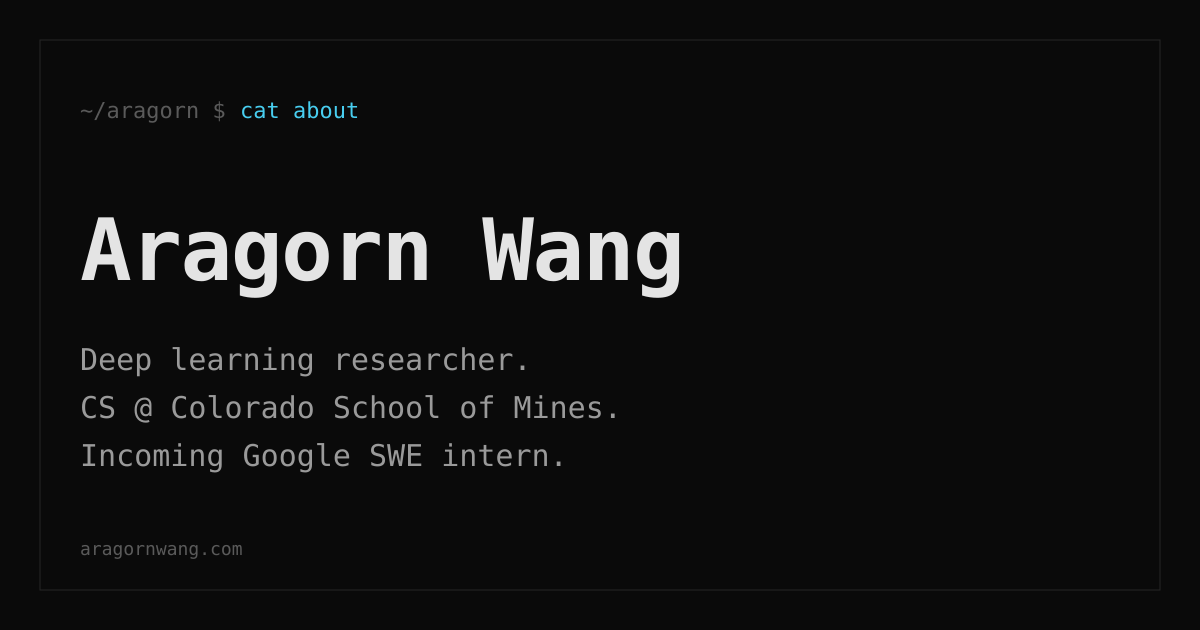
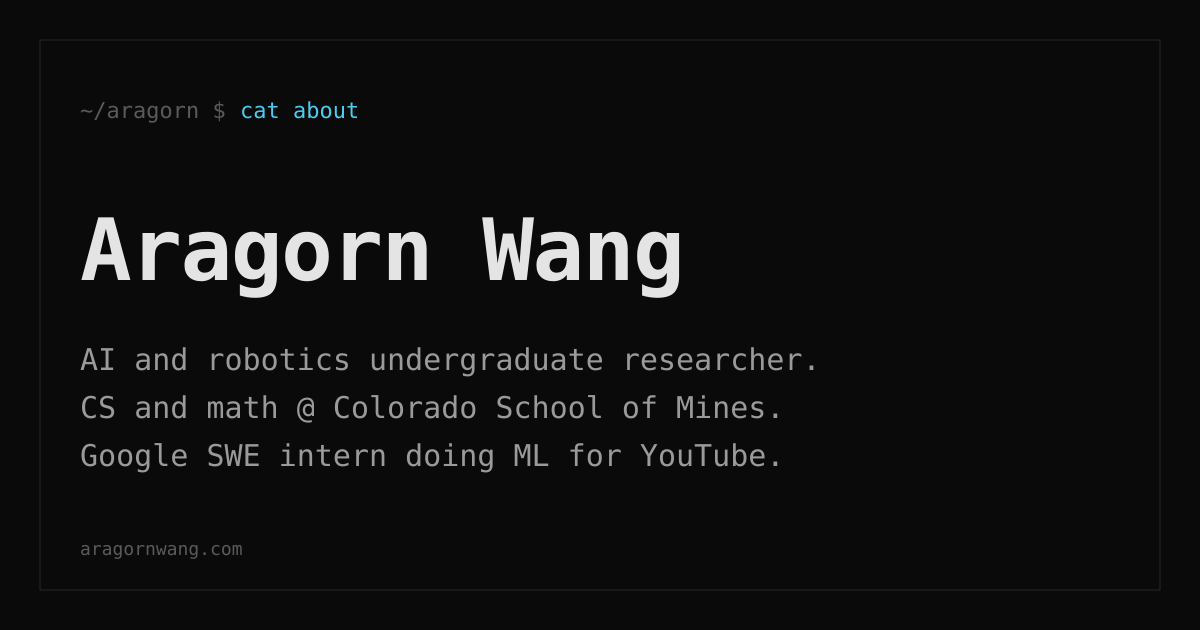
content: refresh homepage tagline and /now; drop incoming (#40)
New homepage tagline (AI and robotics undergraduate researcher; CS and math @ Mines; Google SWE intern doing ML for YouTube), OG image regenerated. Dropped incoming sitewide now that the Google role is current; about-page and experience copy in present tense. /now refreshed for mid-June (internship now under Building, finals dropped, Heading-into is fall + PhD apps). verify assertion updated. Codex reviewed; CI green.

diff --git a/src/content/experience/google.md b/src/content/experience/google.md
@@ -1,6 +1,6 @@
 ---
 company: 'Google'
-role: 'Software Engineering Intern (Incoming)'
+role: 'Software Engineering Intern'
 location: 'Mountain View, CA'
 start: 2026-05-01
 end: 2026-08-01
@@ -12,7 +12,7 @@ tags:
   - 'Custom Accelerators'
 ---
 
-Joining YouTube's AI team this summer to work on efficient neural network architectures for video processing on custom accelerators. The pull is the constraint geometry: real-world video, real-world latency budgets, real-world hardware.
+On YouTube's AI team this summer working on efficient neural network architectures for video processing on custom accelerators. The pull is the constraint geometry: real-world video, real-world latency budgets, real-world hardware.
 
-- Incoming intern on YouTube's AI team
-- Work will focus on efficient neural network architectures for video processing on custom accelerators
+- SWE intern on YouTube's AI team
+- Work focuses on efficient neural network architectures for video processing on custom accelerators

diff --git a/src/content/now.md b/src/content/now.md
@@ -1,15 +1,15 @@
 ---
-updated: 2026-05-18
+updated: 2026-06-14
 ---
 
 ## Building
 
 - My first research paper, with the ARIA Lab at Mines. Novel localization methods using semantic segmentation and object registration: geometric structure as an inductive bias for perception. Deep in writing and experiments right now.
+- At Google on the YouTube AI team this summer, working on efficient neural architectures for video on custom accelerators. The deploy-side constraints map onto the same latency, power, and throughput questions generalist robot models will face on-device.
 
 ## Heading into
 
-- Finals at Mines, spring '26.
-- Google SWE internship on the YouTube AI team, May–Aug: efficient neural architectures for video on custom accelerators. The deploy-side constraints map onto the same latency, power, and throughput questions generalist robot models will face on-device.
+- Fall back at Mines, and the PhD application cycle.
 
 ## Reading
 
